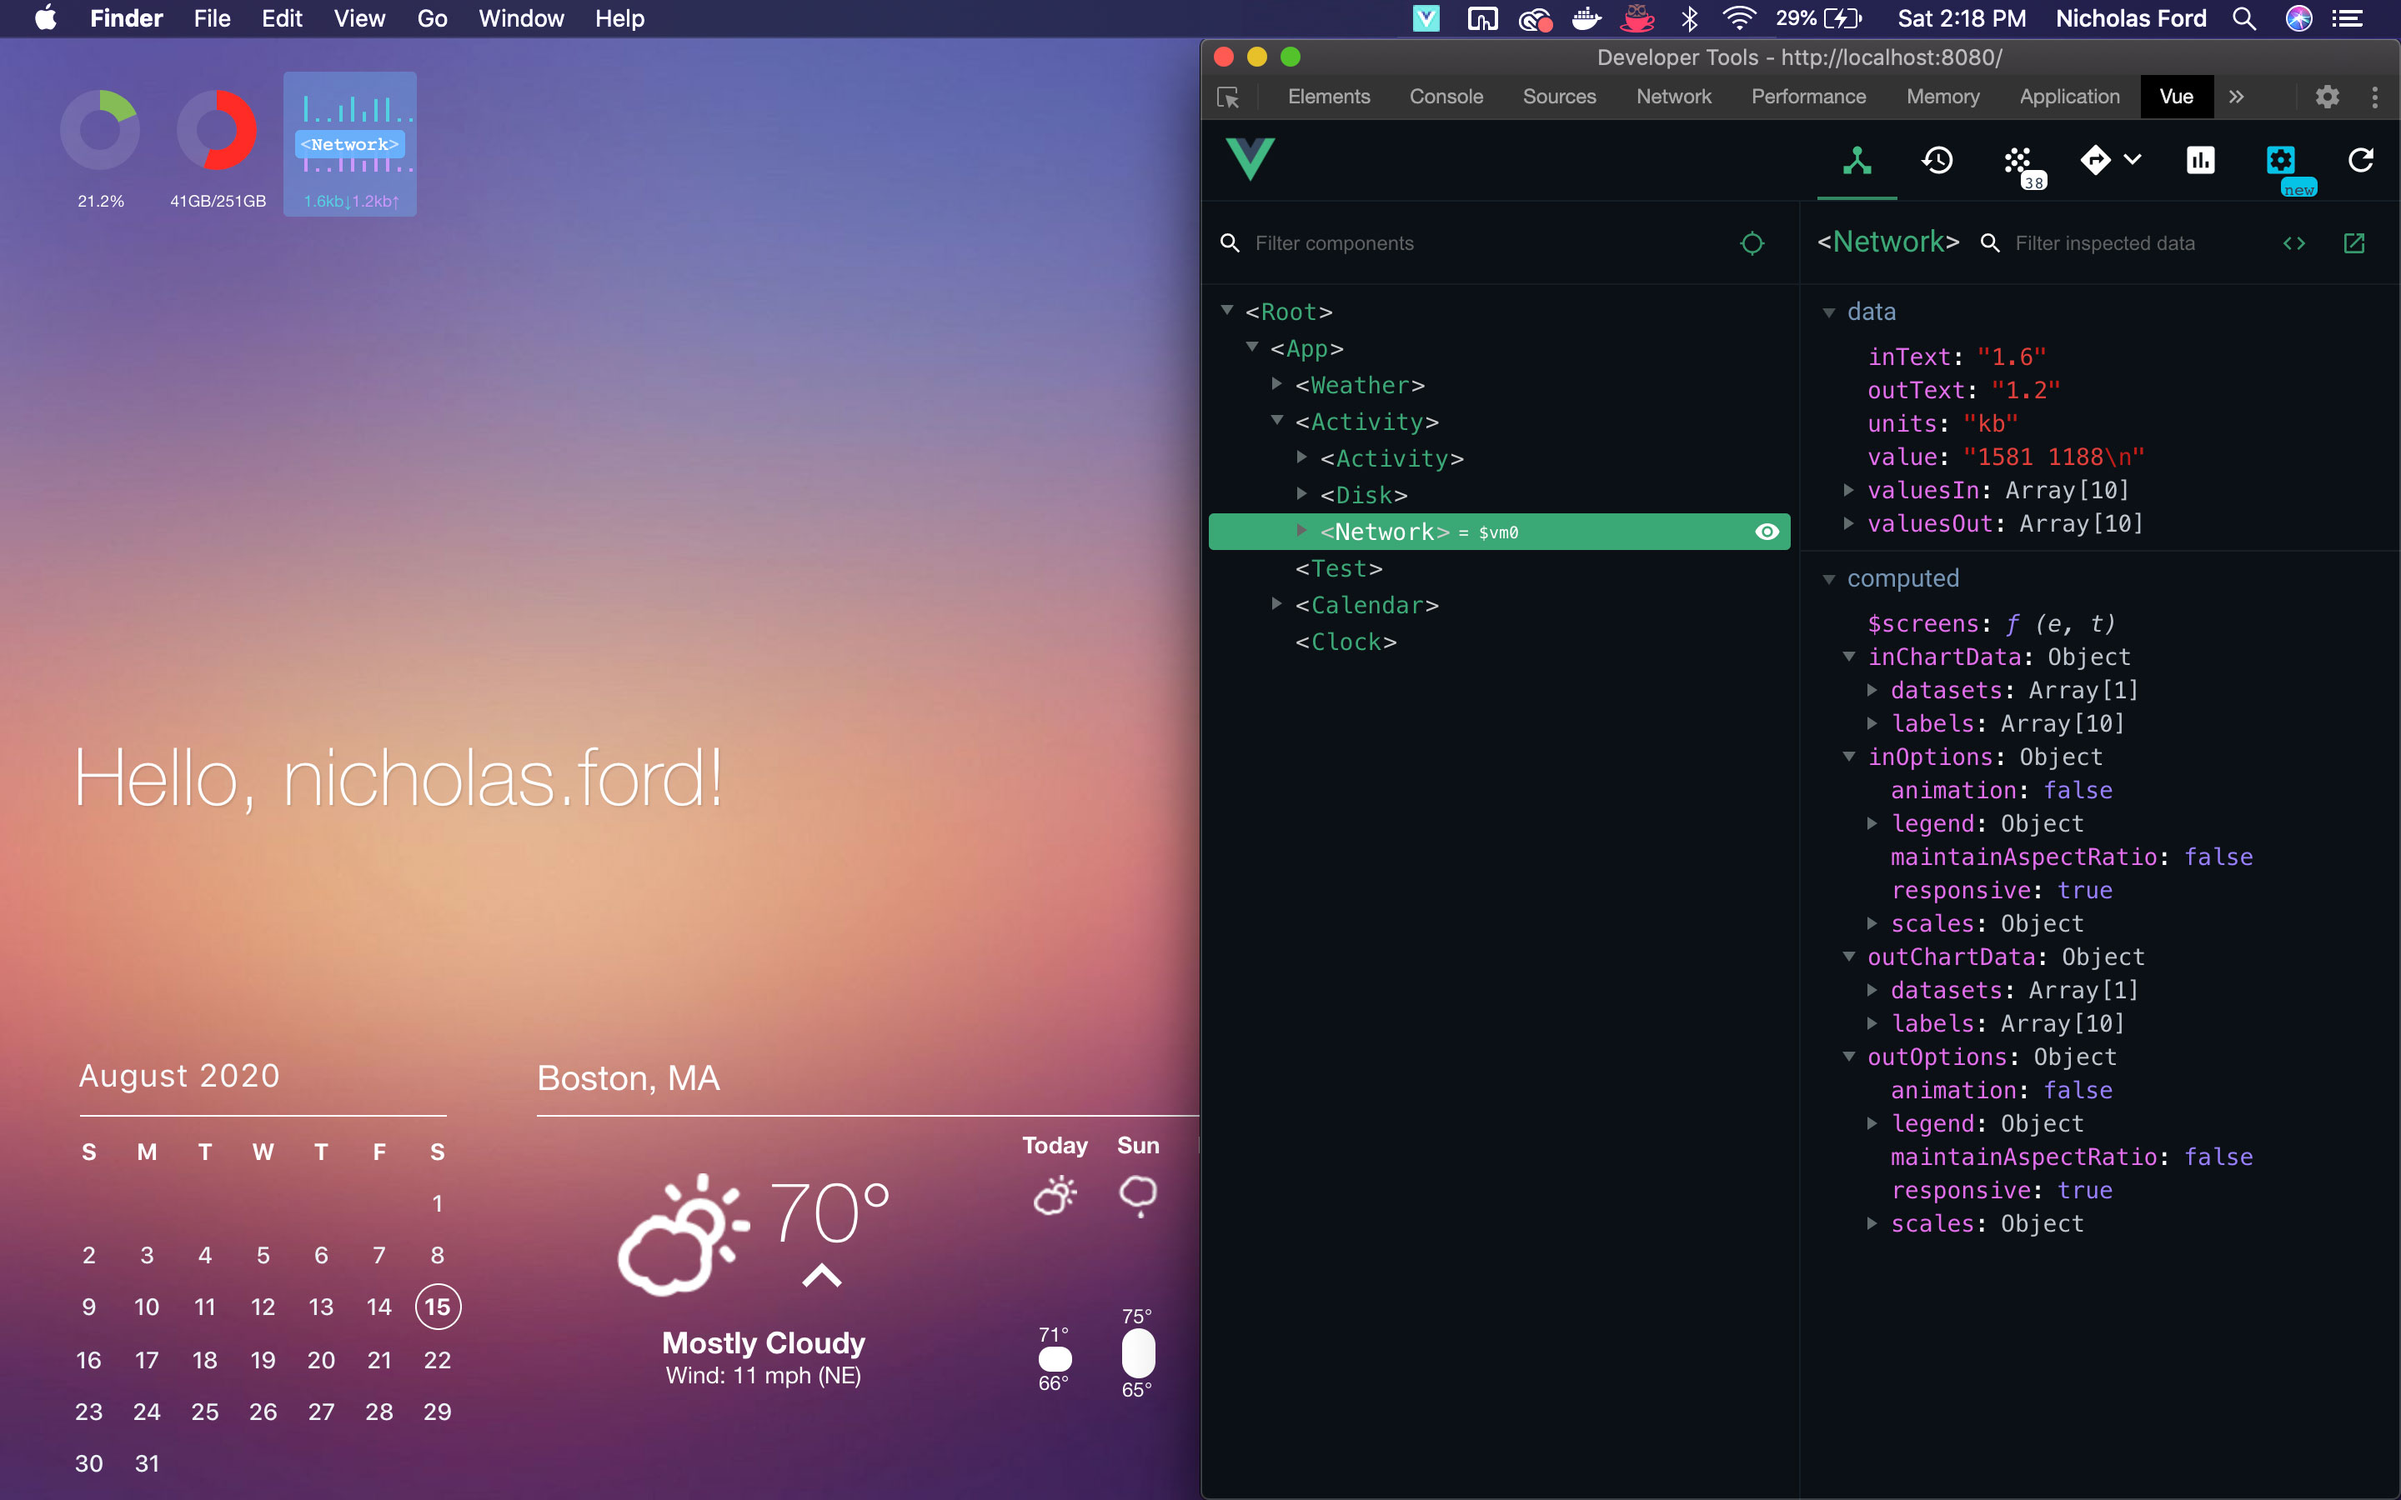
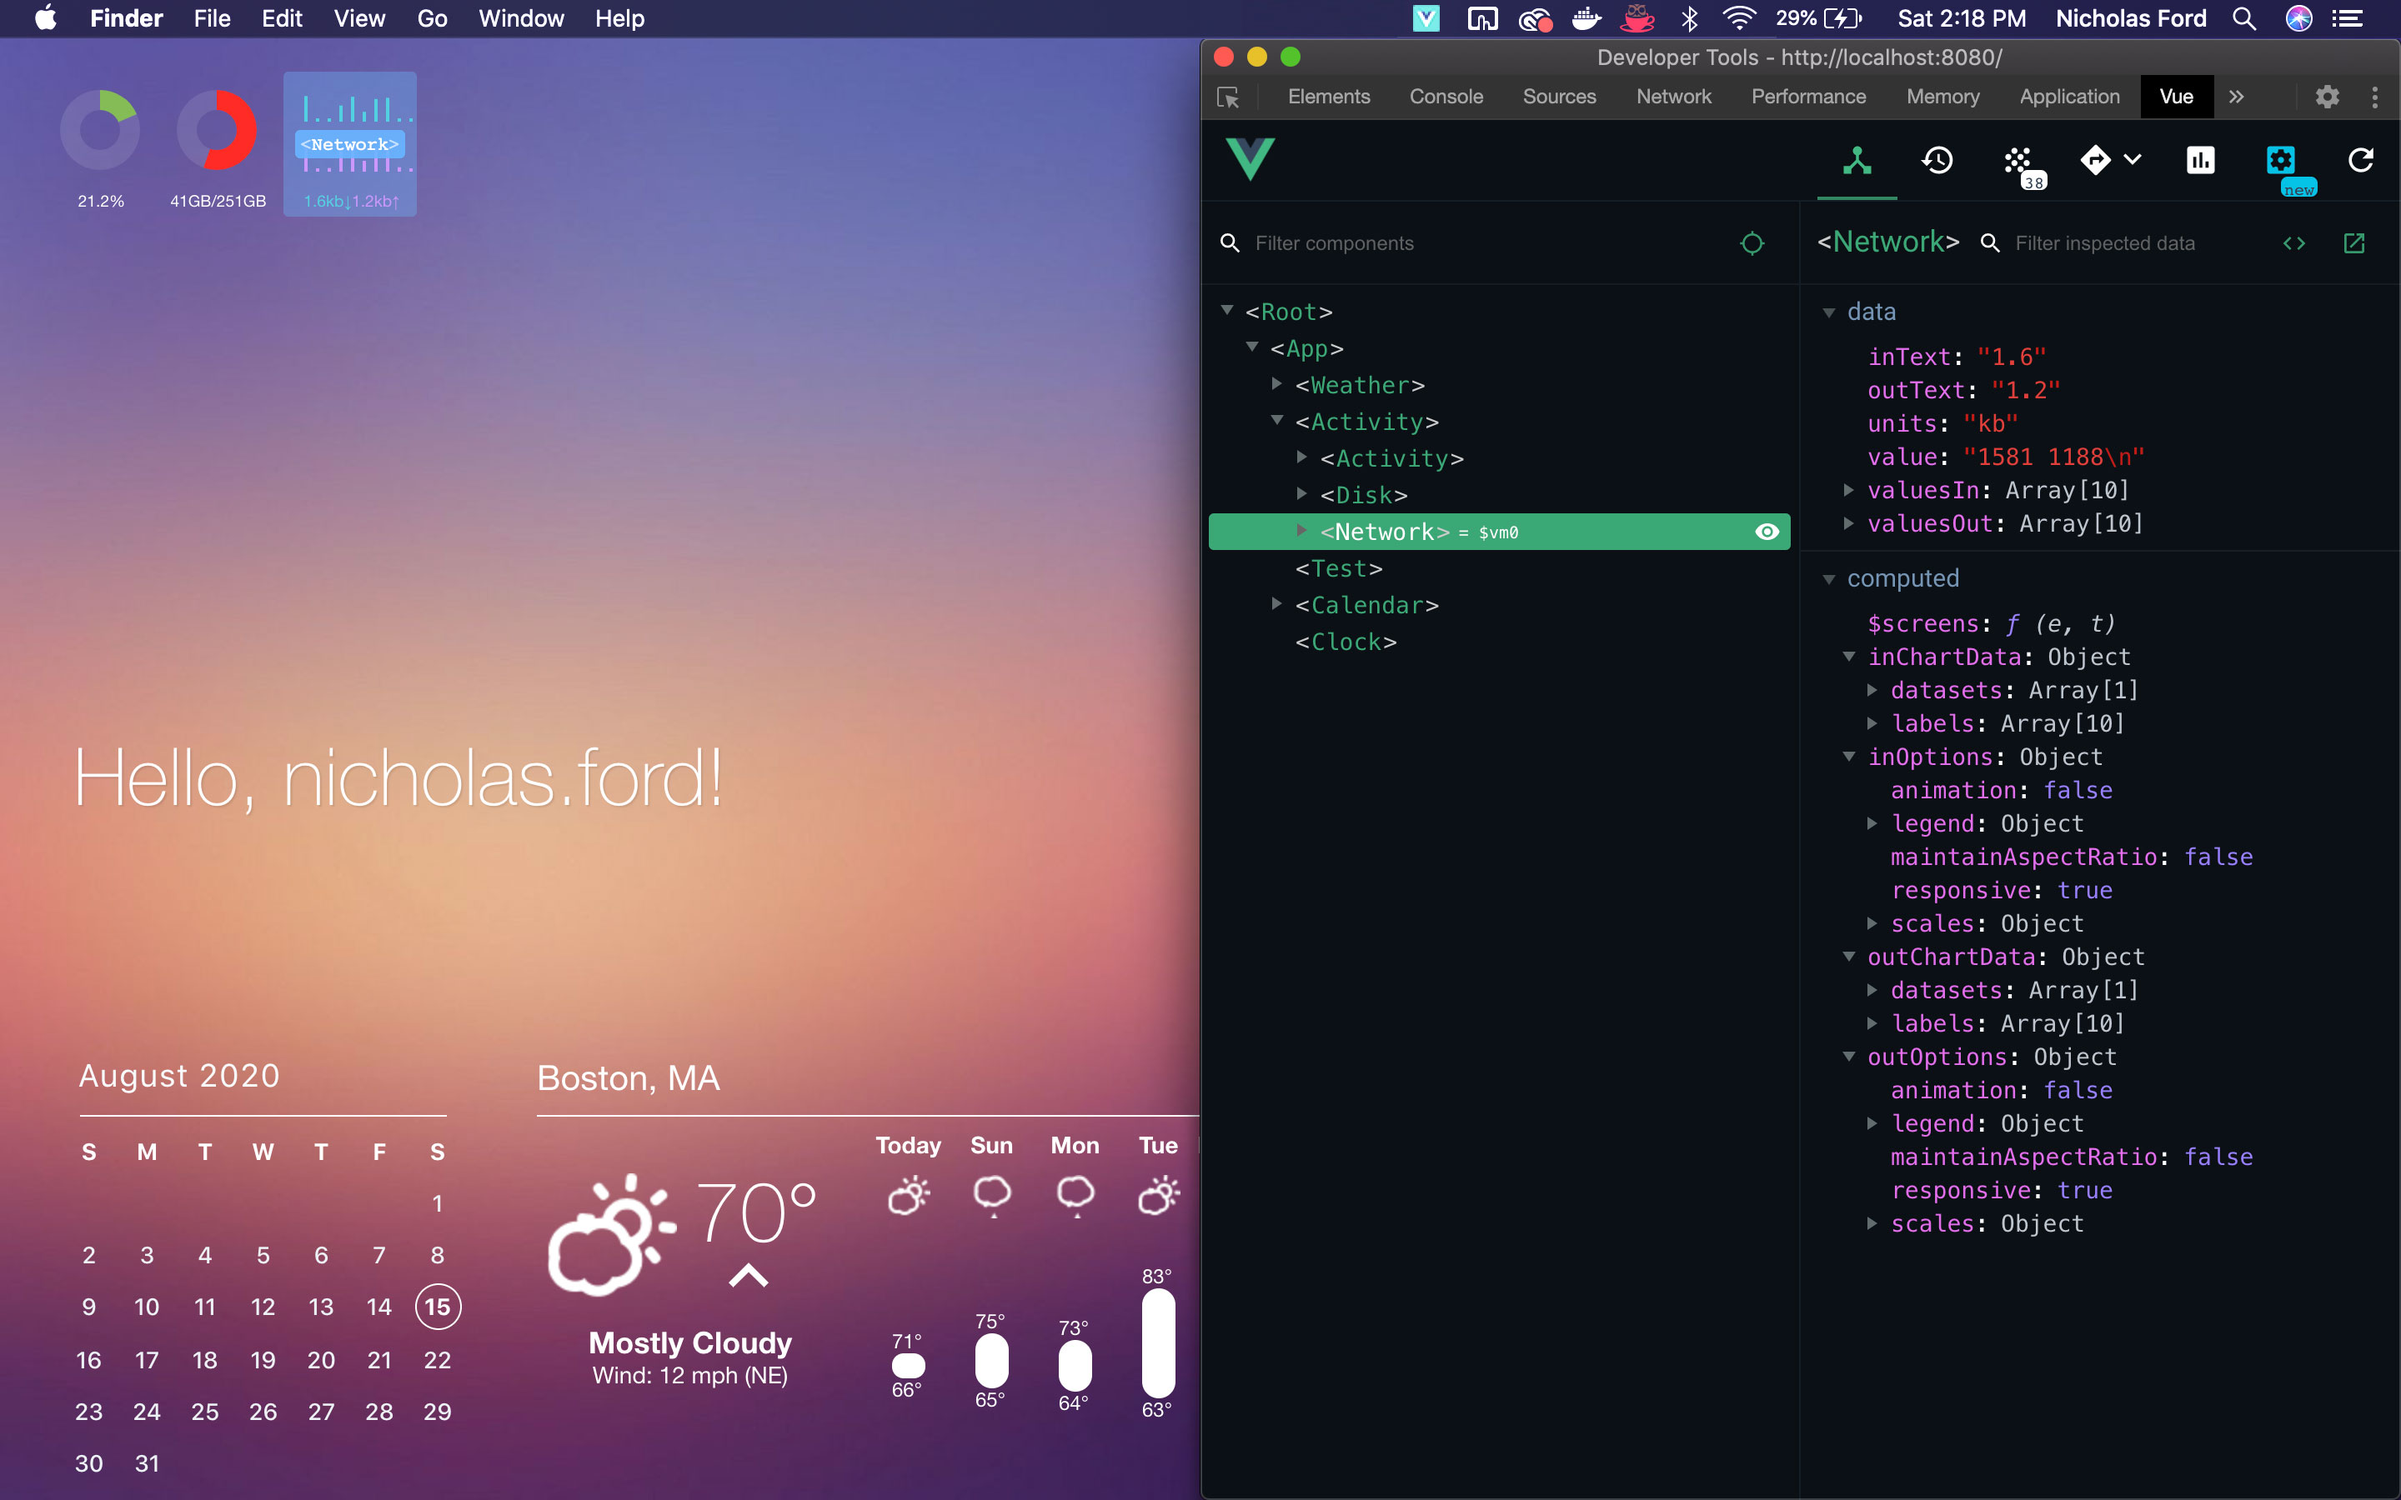
fix weather widget css, update screenshots

Changed region(s): [[0.2188, 0.7467, 0.5, 0.9333]]

diff --git a/src/widgets/Weather.widget.vue b/src/widgets/Weather.widget.vue
@@ -93,11 +93,17 @@ export default class Weather extends Vue {
     border-bottom: 1px solid white;
   }
 
-  .vww__daily .vww__day > span {
-    margin-bottom: 10px;
+  .vww__daily {
+    width: calc(100% - 160px);
+
+    .vww__day > span {
+      margin-bottom: 10px;
+    }
   }
 
   .vww__currently {
+    width: 240px;
+
     .vww__temp {
       font-weight: 200;
 
